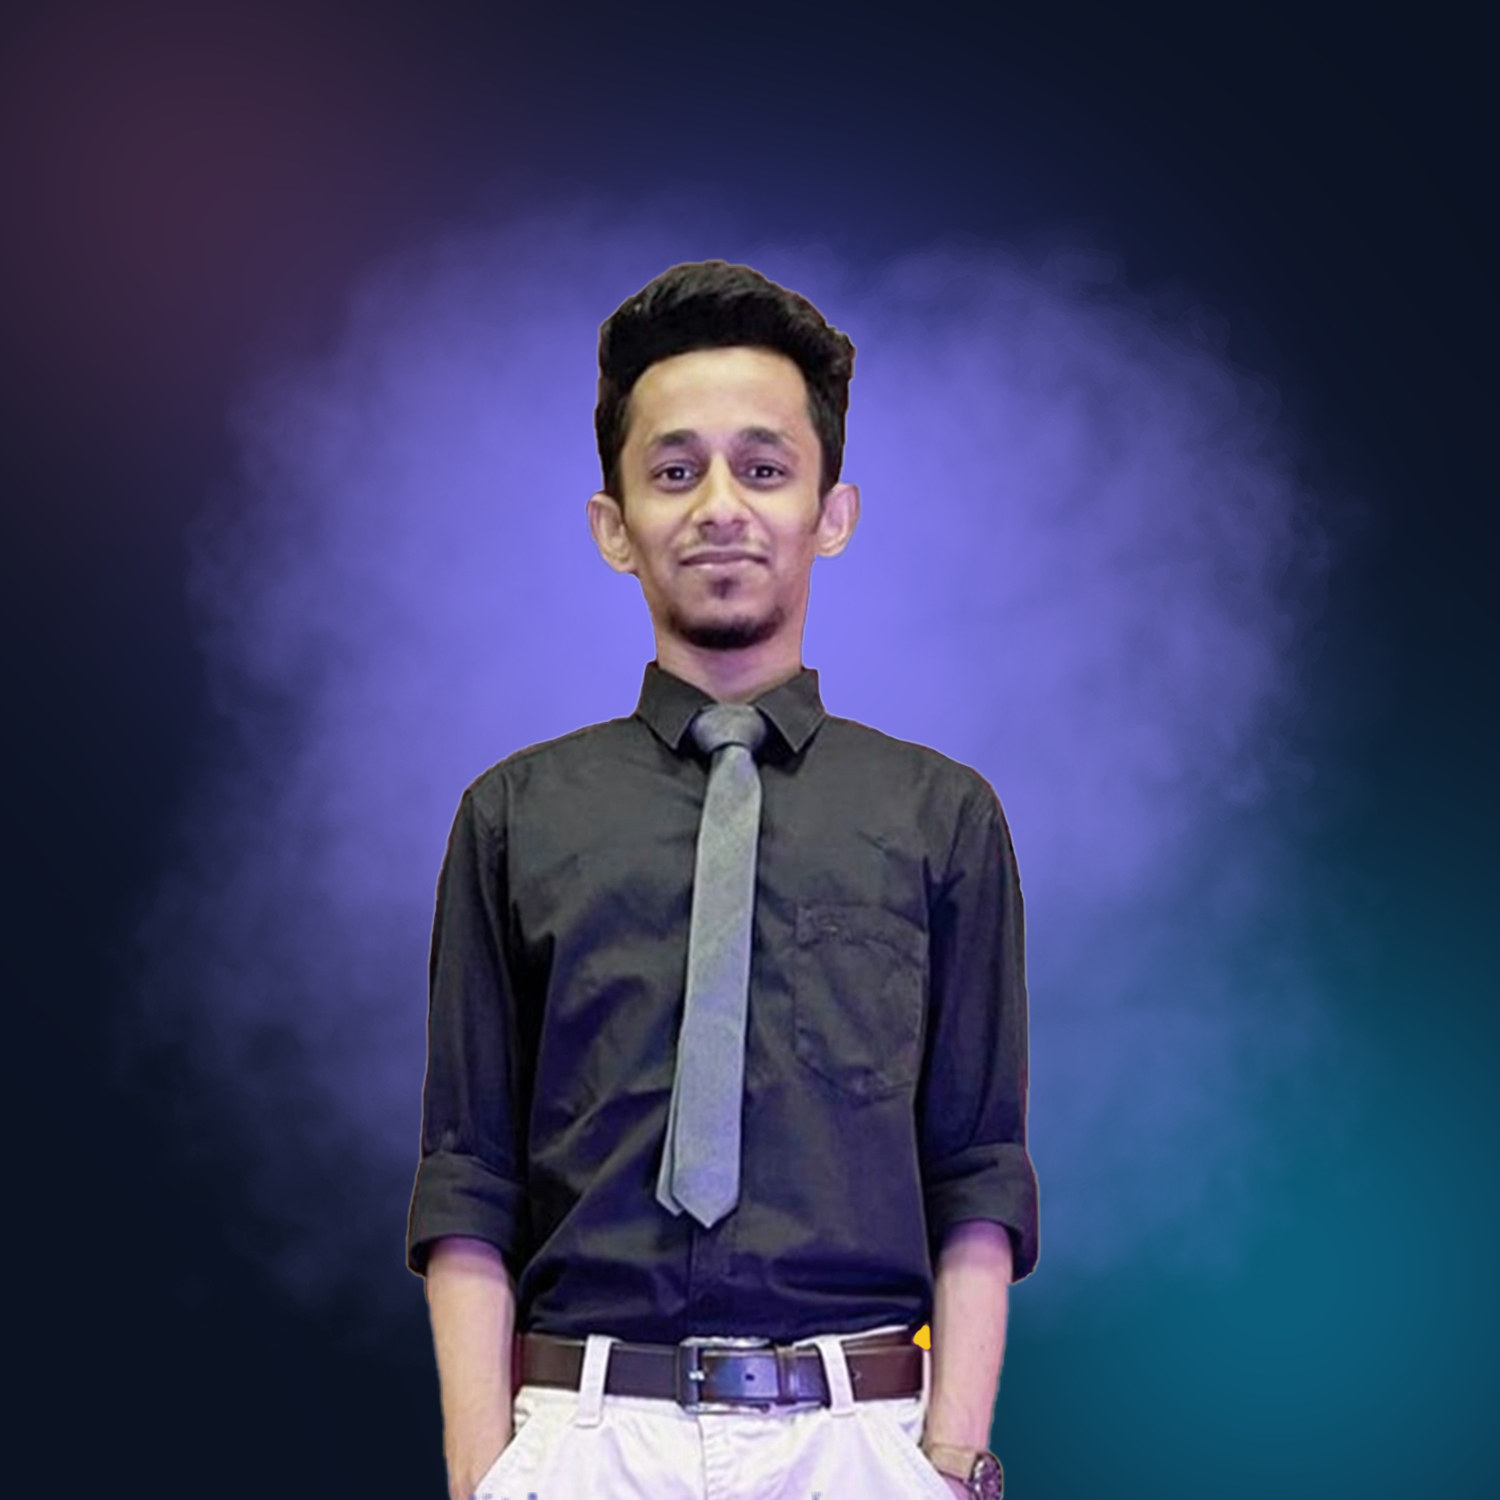
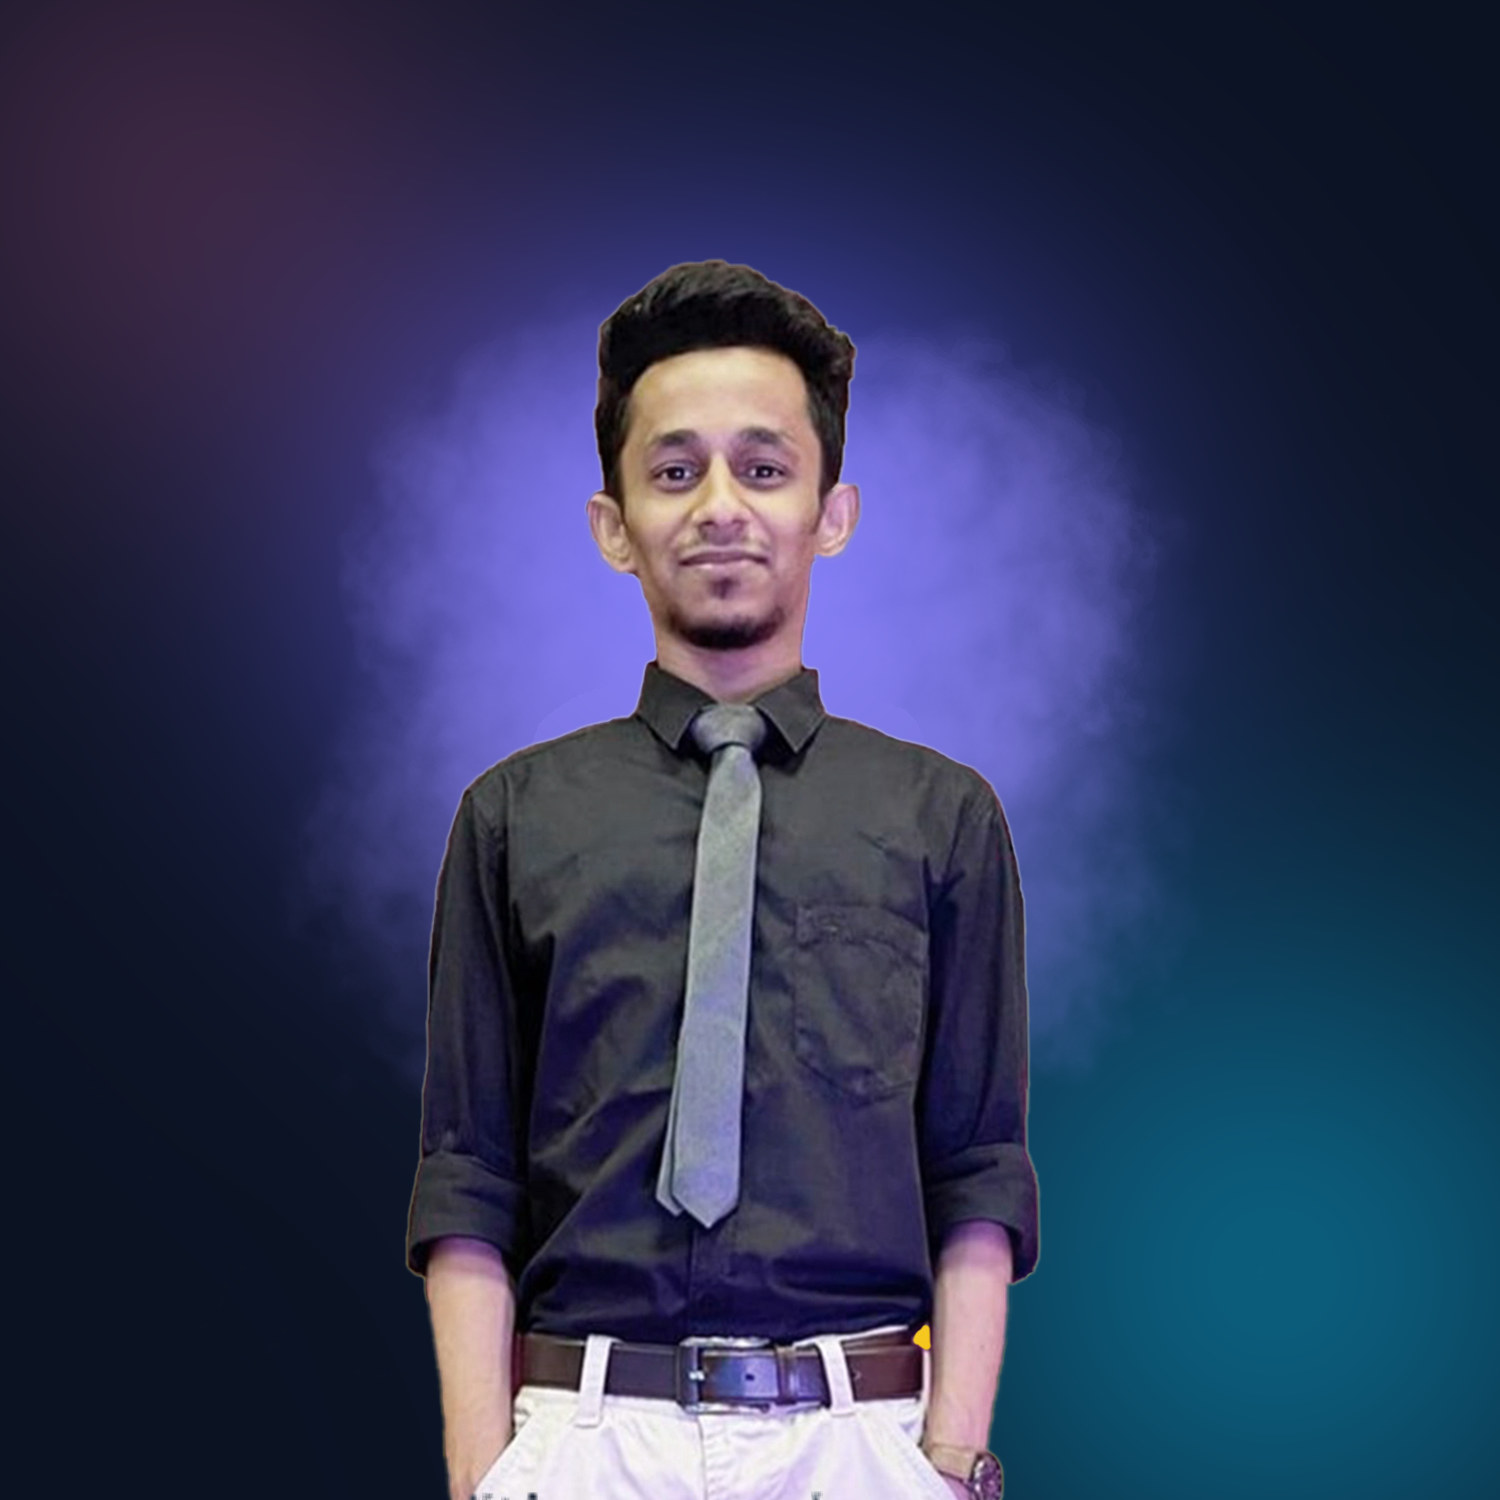
Smaller smoke cloud behind photo; education cards show only bubbles

Changed region(s): [[0.4907, 0.1533, 0.8893, 0.8587], [0.092, 0.1533, 0.46, 0.8587], [0.184, 0.828, 0.2147, 0.8587]]

diff --git a/src/components/record/Record.jsx b/src/components/record/Record.jsx
@@ -159,7 +159,7 @@ const Record = () => {
               data-aos-duration="900"
               data-aos-delay={i * 120}
             >
-              <CardFx seed={i + 5} count={7} />
+              <Bubbles reverse={i % 2 === 1} />
               <div className="about-card__body">
               <span className="edu__date">
                 <span className="dot" aria-hidden="true" />
